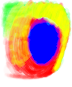
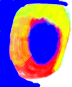
fixed slight confusion with normal map and correct coloring

Changed region(s): [[0.0, 0.0, 0.9722, 1.0]]

diff --git a/source/gamecode.cpp b/source/gamecode.cpp
@@ -438,7 +438,7 @@ DrawImageSlowly(Image&& buffer, Quad worldCoords, Image image, f32 lightAngle = 
                     if(shadePixel && finalBlendedColor.a > 100.0f)
                     {
                             //Shade pixel
-                        *destPixel = ((255 << 24) |
+                        *destPixel = ((0xFF << 24) |
                             (0 << 16) |
                             (0 << 8) |
                             (0 << 0));
@@ -450,6 +450,13 @@ DrawImageSlowly(Image&& buffer, Quad worldCoords, Image image, f32 lightAngle = 
                             ((ui8)finalBlendedColor.g << 8) |
                             ((ui8)finalBlendedColor.b << 0));
                     }
+                }
+                else
+                {
+                        *destPixel = ((0xFF << 24) |
+                            ((ui8)finalBlendedColor.r << 16) |
+                            ((ui8)finalBlendedColor.g << 8) |
+                            ((ui8)finalBlendedColor.b << 0));
                 }
             }
 
@@ -507,6 +514,8 @@ extern "C" void GameUpdate(Application_Memory* gameMemory, Game_Offscreen_Buffer
         stage->info.size.y = viewportHeight;
         stage->info.backgroundImg.data = platformServices->LoadBGRAbitImage("data/mountain.jpg", $(stage->info.backgroundImg.size.width), $(stage->info.backgroundImg.size.height));
 
+        //Camera Init
+
         //Player Init
         player->image.data = platformServices->LoadBGRAbitImage("data/left-bicep.png", $(player->image.size.width), $(player->image.size.height));
         player->image.pitch = player->image.size.width * bytesPerPixel;
@@ -522,14 +531,6 @@ extern "C" void GameUpdate(Application_Memory* gameMemory, Game_Offscreen_Buffer
         enemy->world.rotation = 0.0f;
         enemy->world.scale = {2.3f, 2.3f};
         enemy->image.opacity = .7f;
-
-         //Enemy Init
-        enemy2->image.data = platformServices->LoadBGRAbitImage("data/test_cape_front.bmp", $(enemy2->image.size.width), $(enemy2->image.size.height));
-        enemy2->image.pitch = enemy2->image.size.width * bytesPerPixel;
-        enemy2->world.pos = {200.0f, 100.0f};
-        enemy2->world.rotation = 0.0f;
-        enemy2->world.scale = {2.3f, 2.3f};
-        enemy2->image.opacity = .7f;
 
         gState->normalMap.data = platformServices->LoadBGRAbitImage("data/test.png", $(gState->normalMap.size.width), $(gState->normalMap.size.height));
 
@@ -614,7 +615,6 @@ extern "C" void GameUpdate(Application_Memory* gameMemory, Game_Offscreen_Buffer
     //Essentially local fighter coordinates
     Quad playerTargetRect = ProduceQuadFromBottomLeftPoint(v2f{0.0f, 0.0f}, (f32)player->image.size.width, (f32)player->image.size.height);
     Quad enemyTargetRect = ProduceQuadFromBottomLeftPoint(v2f{0.0f, 0.0f}, (f32)enemy->image.size.width, (f32)enemy->image.size.height);
-    Quad enemy2TargetRect = ProduceQuadFromBottomLeftPoint(v2f{0.0f, 0.0f}, (f32)enemy2->image.size.width, (f32)enemy2->image.size.height);
 
     ConvertToCorrectPositiveRadian($(player->world.rotation));
 
@@ -640,10 +640,9 @@ extern "C" void GameUpdate(Application_Memory* gameMemory, Game_Offscreen_Buffer
 
         playerTargetRect = WorldTransform(playerTargetRect, *player);
         enemyTargetRect  = WorldTransform(enemyTargetRect, *enemy);
-        enemy2TargetRect = WorldTransform(enemy2TargetRect, *enemy2);
 
         Rectf backgroundTargetRect{v2f{0, 0}, v2f{(f32)stage->info.backgroundImg.size.width, (f32)stage->info.backgroundImg.size.height}};
-        DrawRectangle($(gState->colorBuffer), backgroundTargetRect, .0f, .5f, .5f);
+        DrawImage($(gState->colorBuffer), backgroundTargetRect, gState->stage.info.backgroundImg);
         DrawImageSlowly($(gState->colorBuffer), playerTargetRect, player->image, gState->lightAngle, gState->lightThreshold, gState->normalMap, player->world.rotation, player->world.scale);
     };
 };

diff --git a/source/shared.h b/source/shared.h
@@ -269,13 +269,6 @@ auto DilateAboutArbitraryPoint(v2f PointOfDilation, f32 ScaleFactor, Rectf RectT
     return DilatedRect;
 };
 
-auto RotateAboutArbitraryPoint(v2f PointOfRotation, f32 DegreeOfRotation, Rectf RectToRotate) -> Rectf
-{
-    Rectf RotatedRect {};
-
-    return RotatedRect;
-};
-
 struct Game_Render_Cmds
 {
     void (*ClearScreen)();
